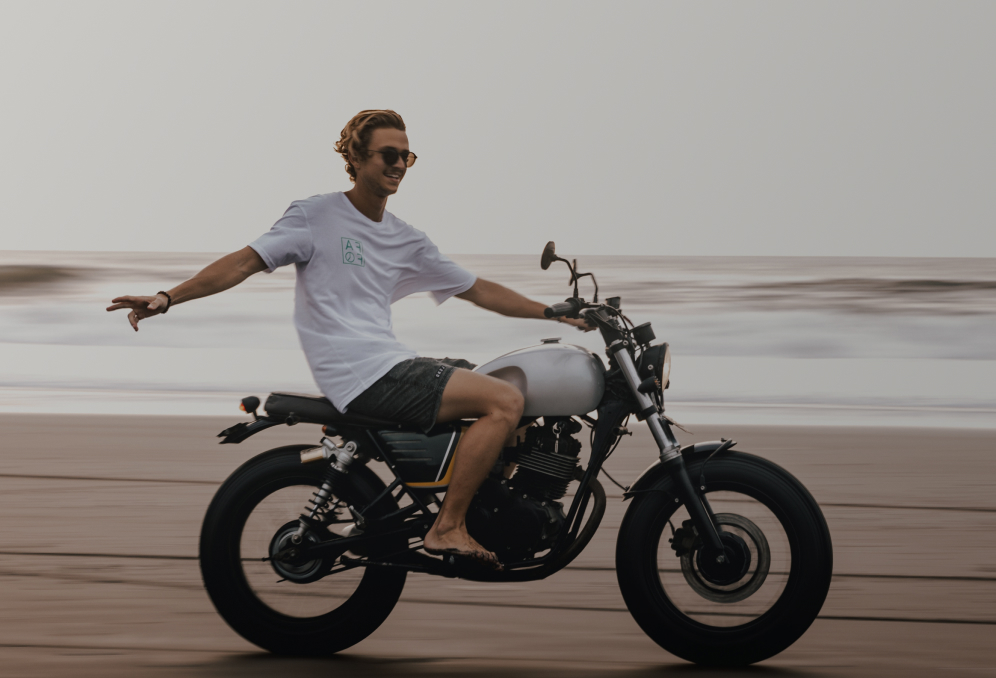
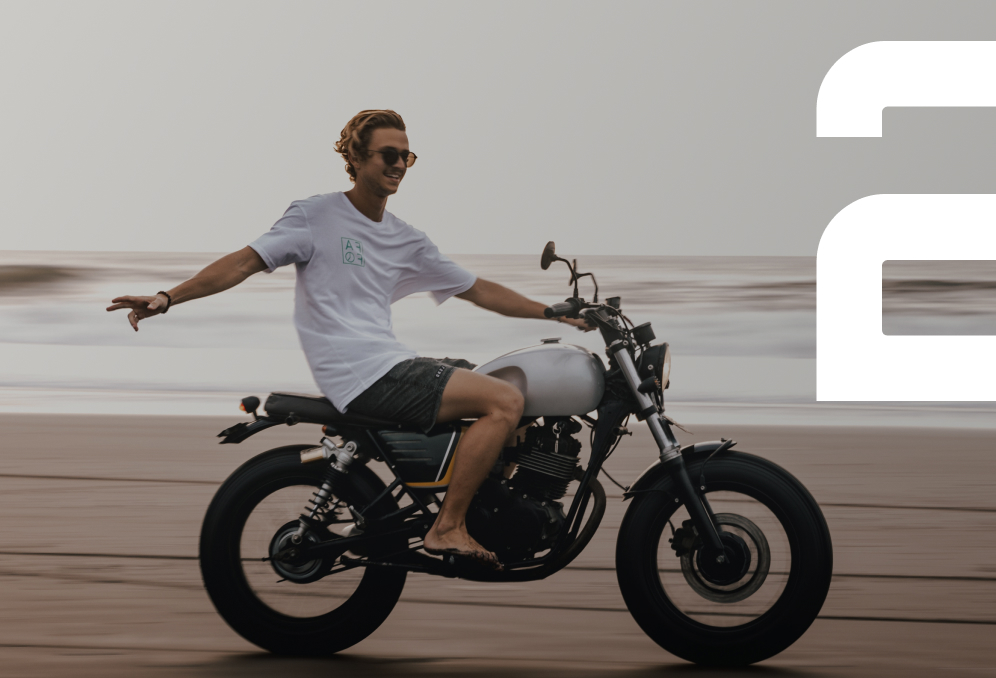
31.10

Changed region(s): [[0.8092, 0.2788, 1.0, 0.5885], [0.8092, 0.0619, 1.0, 0.2168]]

diff --git a/style.css b/style.css
@@ -39,7 +39,6 @@
 	font-family: "Gotham", "Times New Roman", sans-serif;
 	font-size: 16px;
 	line-height: 19px;
-	font-weight: 500;
 	font-weight: bold;
 	color: var(--basic-black);
 	background-color: var(--basic-white);
@@ -575,8 +574,6 @@ margin-right: 30px;
 
 .features .heading {
 	padding-left: 112px;
-	outline: 5px solid rgb(142, 23, 42);
-	outline-offset: -5px;
 }
 
 .features-list {
@@ -589,41 +586,46 @@ margin-right: 30px;
 	row-gap: 60px;
 }
 
-.features-list ul {
-	outline: 5px solid red;
-	outline-offset: -5px;
-}
-
 b {
 	padding: 0 3px;
 	color: var(--basic-black);
 }
 
 .trust {
-	padding: 0;
-	list-style: none;
 	height: 678px;
-	color: var(--basic-white);
-	background-image: url("img/18.jpg");
-	background-position: right;
-	background-repeat: no-repeat;
 
 	grid-row: 1;
 }
 
-.trust li {
+.trust-list {
+	position: relative;
+	bottom: 700px;
+	padding: 0;
+	list-style: none;
+	color: var(--basic-white);
+}
+
+.trust p {
+	padding: 0;
+	margin: 0;
+	text-align: right;
+}
+
+.trust-list li {
 	font-weight: 900;
 	position: relative;
 }
 
-.trust li:nth-child(1) {
+.trust-list li:nth-child(1) {
+	padding-left: 250px;
 	top: 234px;
 	font-size: 96px;
 	line-height: 115px;
 }
 
-.trust li:nth-child(2) {
+.trust-list li:nth-child(2) {
 	bottom: 30px;
+	padding-left: 150px;
 	font-family: "Orbitron", "Times New Roman", sans-serif;
 	line-height: 627px;
 	font-size: 500px;
@@ -631,113 +633,158 @@ b {
 	opacity: 0.1;
 }
 
-.trust li:nth-child(3) {
+.trust-list li:nth-child(3) {
 	bottom: 405px;
+	padding-left: 310px;
 	font-size: 200px;
 	line-height: 240px;
 }
 
-.trust li:nth-child(3) span {
+.trust-list li:nth-child(3) span {
 	color: var(--headlines);
 	opacity: 0.1;
 }
 
-.trust li:nth-child(4) {
+.trust-list li:nth-child(4) {
 	bottom: 460px;
+	padding-left: 120px;
 	font-size: 64px;
 	line-height: 77px;
 	text-align: center;
 }
 
-.trust li:nth-child(5) {
+.trust-list li:nth-child(5) {
 	bottom: 470px;
+	padding-left: 400px;
 	font-size: 48px;
 	line-height: 58px;
 	text-align: center;
 } 
 
 .reviews {
-	margin: 0;
-	padding: 0;
-	list-style: none;
-	width: 1026px;
 	height: 678px;
-	background-image: url("img/19.jpg");
 
 	grid-row: 2;
 }
 
-.reviews li {
-	font-family: "Orbitron", "Times New Roman", sans-serif;
-	font-weight: 900;
+.background-reviews {
+	width: 1170px;
+	height: 678px;
+	padding: 0;
+	margin: 0;
+}
+
+.background-reviews img {
 	position: relative;
 }
 
-.reviews li:nth-child(1) {
-	outline: 5px solid rgb(130, 203, 21);
-	outline-offset: -5px;
+.background-reviews img:nth-child(1) {
+	left: 800px;
+	top: 40px;
+	width: 357px;
+	height: 355px;
 }
-/*
-	font-size: 500px;
-	line-height: 627px;
-	font-size: 64px;
-	line-height: 77px;
+
+.background-reviews img:nth-child(2) {
+	bottom: 360px;
 }
-*/
 
-
-.reviews li:nth-child(-n+3) b {
-	font-family: inherit;
+.reviews-list {
+	bottom: 550px;
 	font-size: 40px;
 	line-height: 48px;
+	list-style: none;
+	color: var(--headlines);
+
+	position: relative;
 }
 
-.reviews li:nth-child(1) b {
-	font-family: inherit;
-	font-size: 64px;
+.reviews-list li {
+	font-weight: 900;	
+	position: relative;
+}
+
+.reviews-list li:nth-child(1) {
+	padding-right: 80px;
+	top: 80px;
+	font-size: 84px;
 	line-height: 77px;
+	text-align: right;
 }
 
-.reviews li:nth-child(2) {
-	font-size: 128px;
-	line-height: 161px;
-	outline: 5px solid rgb(86, 116, 41);
-	outline-offset: -5px;
+.reviews-list li:nth-child(2) {
+	padding-right: 210px;
+	top: 150px;
+
+	display: flex;
+	justify-content: flex-end;
 }
 
-.reviews span {
+.reviews-list li:nth-child(3) {
+	padding-right: 265px;
+	top: 120px;
+
+	display: flex;
+	justify-content: flex-end;
+}
+
+.reviews-list span {
+	font-family: "Orbitron", "Times New Roman", sans-serif;
 	font-size: 128px;
 	line-height: 161px;
+}
+
+.reviews-list li:nth-child(2) span {
+	color: var(--basic-white);
+}
+
+.reviews-list li:nth-child(1) span {
+	font-size: 40px;
+	line-height: 48px;
+	color: var(--basic-white);
 }
 
 .service {
-	margin: 0;
-	padding: 0;
-	list-style: none;
-	width: 1026px;
 	height: 678px;
-	background-image: url("img/20.jpg");
 
 	grid-row: 3;
 }
 
-.service li:nth-child(1) {
+.service-list {
+	margin: 0;
+	padding: 0;
+	list-style: none;
+}
+
+.service img {
+	width: 1026px;
+	height: 678px;
+}
+
+.service p {
+	text-align: right;
+}
+
+.service-list li {
+	bottom: 600px;
+	font-weight: 900;
+	position: relative;
+}
+
+.service-list li:nth-child(1) {
 	font-family: "Orbitron", "Times New Roman", sans-serif;
+	font-size: 500px;
+	line-height: 627px;
 	color: var(--headlines);
 	opacity: 0.1;
 }
-/*
-font-size: 500px;
-line-height: 627px;
-}
-*/
 
-.service li:nth-child(2) {
-font-size: 96px;
-line-height: 115px;
+.service-list li:nth-child(2) {
+	font-size: 96px;
+	line-height: 115px;
 }
 
-.service li:nth-child(3) {
+.service-list li:nth-child(3) {
 	font-size: 64px;
 	line-height: 77px;
 	}
@@ -892,5 +939,11 @@ line-height: 115px;
 /* Modal */
 .modal {
 	color: var(--basic-white);
-	background-color: var(--accent);
+	background-color: transparent;
+}
+
+.form-button {
+	padding: 20px;
+	width: 400px;
+	min-height: 78px;
 }

diff --git a/index.html b/index.html
@@ -207,23 +207,43 @@
 		<section class="features">
 			<h2 class="heading">Почему стоит выбрать именно нас</h2>
 			<div class="features-list">
-				<ul class="trust">
-					<li><b>Нам</b> доверяют</li>
-					<li>1</li>
-					<li><span>0</span>00 +</li>
-					<li>постоянных</li>
-					<li>клиентов</li>
-				</ul>
-				<ul class="reviews">
-					<li>2 <b>года</b></li>
-					<li>0 <b>негативных клиентов</b></li>
-					<li><span>657</span> <b>хороших отзывов</b></li>
-				</ul>
-				<ul class="service">
-					<li>3</li>
-					<li><b>Лучший</b> сервис</li>
-					<li>на <span>острове</span></li>
-				</ul>
+				<div class="trust">
+					<p>
+						<img src="img/18.jpg" width="984px" height="678px" alt="Мужчина стоит спиной на мотоцикле на пляже на Бали">
+					</p>
+					<ul class="trust-list">
+						<li><b>Нам</b> доверяют</li>
+						<li>1</li>
+						<li><span>0</span>00 +</li>
+						<li>постоянных</li>
+						<li>клиентов</li>
+					</ul>
+				</div>
+				<div class="reviews">
+					<p class="background-reviews">
+						<img src="img/2.png" width="357px" height="360px">
+						<img src="img/19.jpg" width="984px" height="678px" alt="Мужчина едет на мотоцикле на пляже на Бали">
+					</p>
+					<ul class="reviews-list">
+						<li><span>2</span>Года</li>
+						<li><span>0</span>Негативных<br>
+							 клиентов
+						</li>
+						<li><span>657</span>Хороших<br>
+						 отзывов
+						</li>
+					</ul>
+				</div>
+				<div class="service">
+					<p>
+						<img src="img/20.jpg" width="1026px" height="678px" alt="Мужчина ремонтирует мотоцикл в сервисе на Бали">
+					</p>
+					<ul class="service-list">
+						<li>3</li>
+						<li><b>Лучший</b> сервис</li>
+						<li>на <span>острове</span></li>
+					</ul>
+				</div>
 			</div>
 		</section>
 
